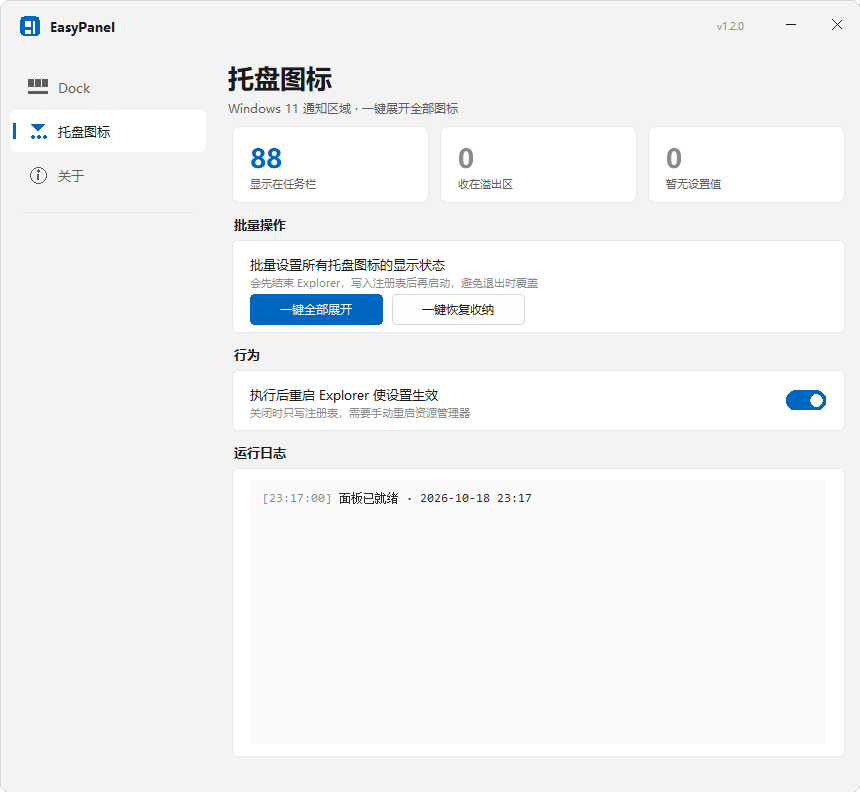
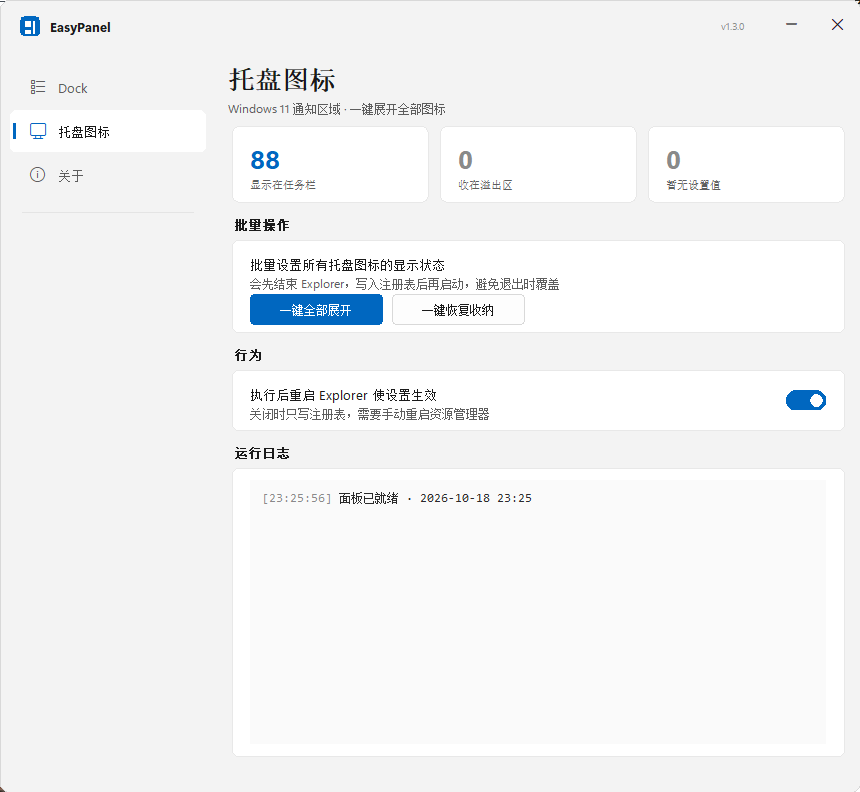
换用 Win11 原生字体与图标，解决文字发虚
- 正文 Segoe UI Variable Text / 标题 Segoe UI Variable Display（中文回退雅黑）
- 图标改用 Segoe Fluent Icons 字形：导航 E71D/E7F4/E946、行内 E74A/E74B/E74D、标题栏 E8BB/E921
- 次要文字 11.5px #8A8A8A → 12px #5D5D5D（Win11 TextFillColorSecondary），对比更实
- 补 ensure_fonts()：Win10 无 Variable/Fluent Icons 时回退 Segoe UI / MDL2
- 版本 1.3.0

diff --git a/README.md b/README.md
@@ -17,7 +17,11 @@ Windows 小工具集：绿色免安装、纯本地运行、只改当前用户设
 一个窗口管两件事。视觉照 Windows 11「设置」做：`#F3F3F3` 底、白色卡片承载每组设置、
 `#0067C0` 强调色、6px 圆角、**组标题在卡片外面上方**、卡片内「左标题 + 灰描述 / 右侧控件」
 的设置行配 1px 分割线、左侧导航选中项带强调色竖条——也就是 WinUI 3 的 Fluent Design，
-和 AutoDarkMode 那类原生应用摆在一起观感是同一套。全部用 tkinter 的 Canvas 自绘，
+和 AutoDarkMode 那类原生应用摆在一起观感是同一套。
+
+字体和图标也用 Windows 11 自带的那一套，不是模拟：正文 **Segoe UI Variable Text**、
+标题 **Segoe UI Variable Display**（中文自动回退微软雅黑）、图标 **Segoe Fluent Icons**
+（导航、开关、行内按钮全是真字形，不是手绘几何）。全部用 tkinter 的 Canvas 自绘，
 没有引入 WinUI 或任何第三方库。
 
 | 页面 | 能做什么 |
